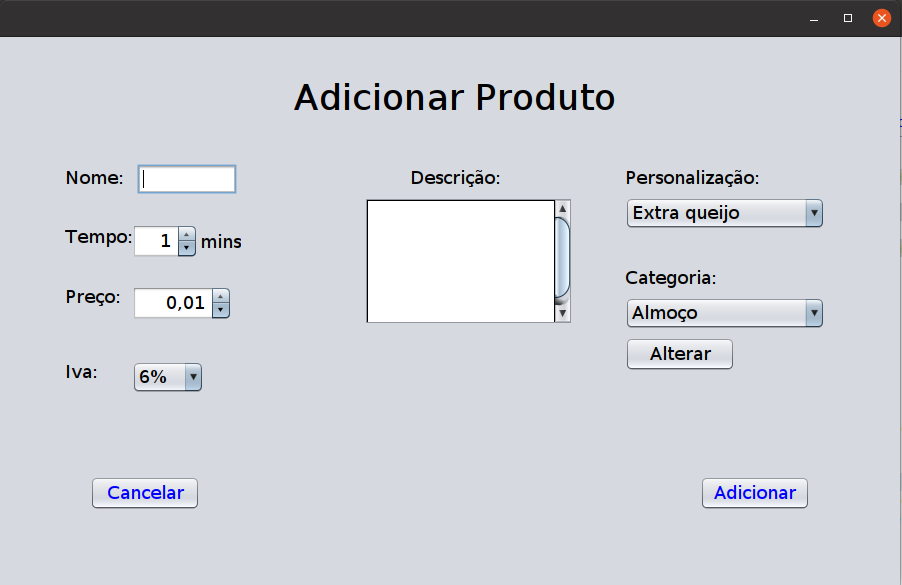
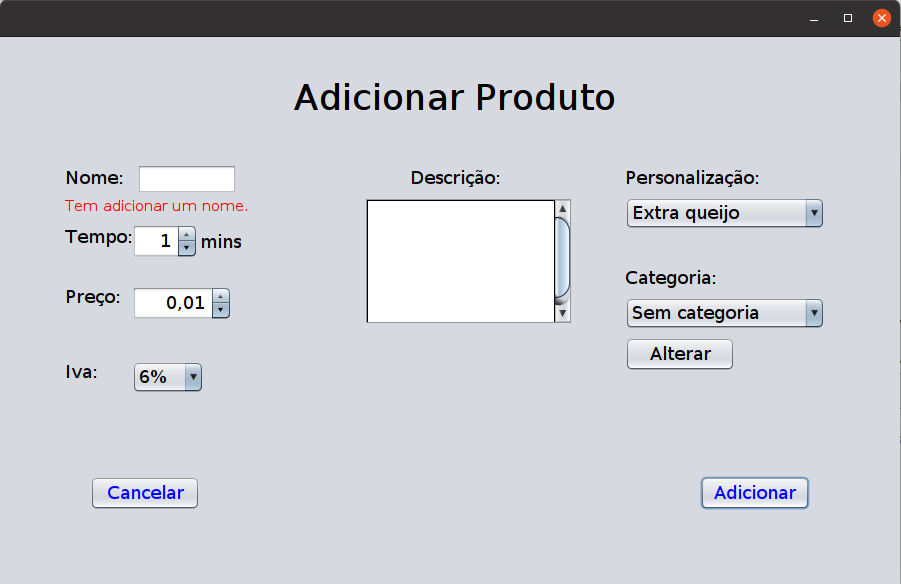
bugs corrigidos

diff --git a/PTDA_2020 (1)/src/main/java/BD/Menu.java b/PTDA_2020 (1)/src/main/java/BD/Menu.java
@@ -227,18 +227,18 @@ public class Menu extends VerDados {
 
         return sb.toString();
     }
-//
-//    public static void main(String[] args) throws SQLException, ClassNotFoundException {
-//        Menu menu = new Menu();
-//
-//        String[] p = menu.nomeMenu().split("\n");
-//        for(String n : p){
-//            System.out.println(n);
-//            int w = menu.verID("GDJHAD", n);
-//            String i = menu.IdProdutosAssociadosAoMenu(w);
-//            String k = menu.produtoAsssociadosAoMenu(i);
-//            System.out.println(k);
-//        }
-//        
-//    }
+
+    public static void main(String[] args) throws SQLException, ClassNotFoundException {
+        Menu menu = new Menu();
+
+        String[] p = menu.nomeMenu().split("\n");
+        for(String n : p){
+            System.out.println(n);
+            int w = menu.verID("GDJHAD", n);
+            String i = menu.IdProdutosAssociadosAoMenu(w);
+            String k = menu.produtoAsssociadosAoMenu(i);
+            System.out.println(k);
+        }
+        
+    }
 }

diff --git a/PTDA_2020 (1)/src/main/java/Empregado_cozinha/Ver_pedidos.java b/PTDA_2020 (1)/src/main/java/Empregado_cozinha/Ver_pedidos.java
@@ -207,15 +207,13 @@ public class Ver_pedidos extends javax.swing.JFrame {
         //</editor-fold>
 
         /* Create and display the form */
-        java.awt.EventQueue.invokeLater(new Runnable() {
-            public void run() {
-                try {
-                    new Ver_pedidos().setVisible(true);
-                } catch (ClassNotFoundException ex) {
-                    Logger.getLogger(Ver_pedidos.class.getName()).log(Level.SEVERE, null, ex);
-                } catch (SQLException ex) {
-                    Logger.getLogger(Ver_pedidos.class.getName()).log(Level.SEVERE, null, ex);
-                }
+        java.awt.EventQueue.invokeLater(() -> {
+            try {
+                new Ver_pedidos().setVisible(true);
+            } catch (ClassNotFoundException ex) {
+                Logger.getLogger(Ver_pedidos.class.getName()).log(Level.SEVERE, null, ex);
+            } catch (SQLException ex) {
+                Logger.getLogger(Ver_pedidos.class.getName()).log(Level.SEVERE, null, ex);
             }
         });
     }

diff --git a/PTDA_2020 (1)/src/main/java/Adminstrador/AdicionarProduto.java b/PTDA_2020 (1)/src/main/java/Adminstrador/AdicionarProduto.java
@@ -394,8 +394,6 @@ public class AdicionarProduto extends javax.swing.JFrame {
         try {
 
             MostrarInterface mi;
-
-            
             comboxCategoria();
             
             if (escreverNome.getText().equals("")) {
@@ -410,6 +408,7 @@ public class AdicionarProduto extends javax.swing.JFrame {
                         (String) comboboxCategoria.getSelectedItem(), (String) comboboxPersonalizacao.getSelectedItem());
 
                 ProdutosAdicionados ap = new ProdutosAdicionados();
+                
                 if (menu) {
                     ap.interfaceMenu();
                     mi = new MostrarInterface(this, ap);
